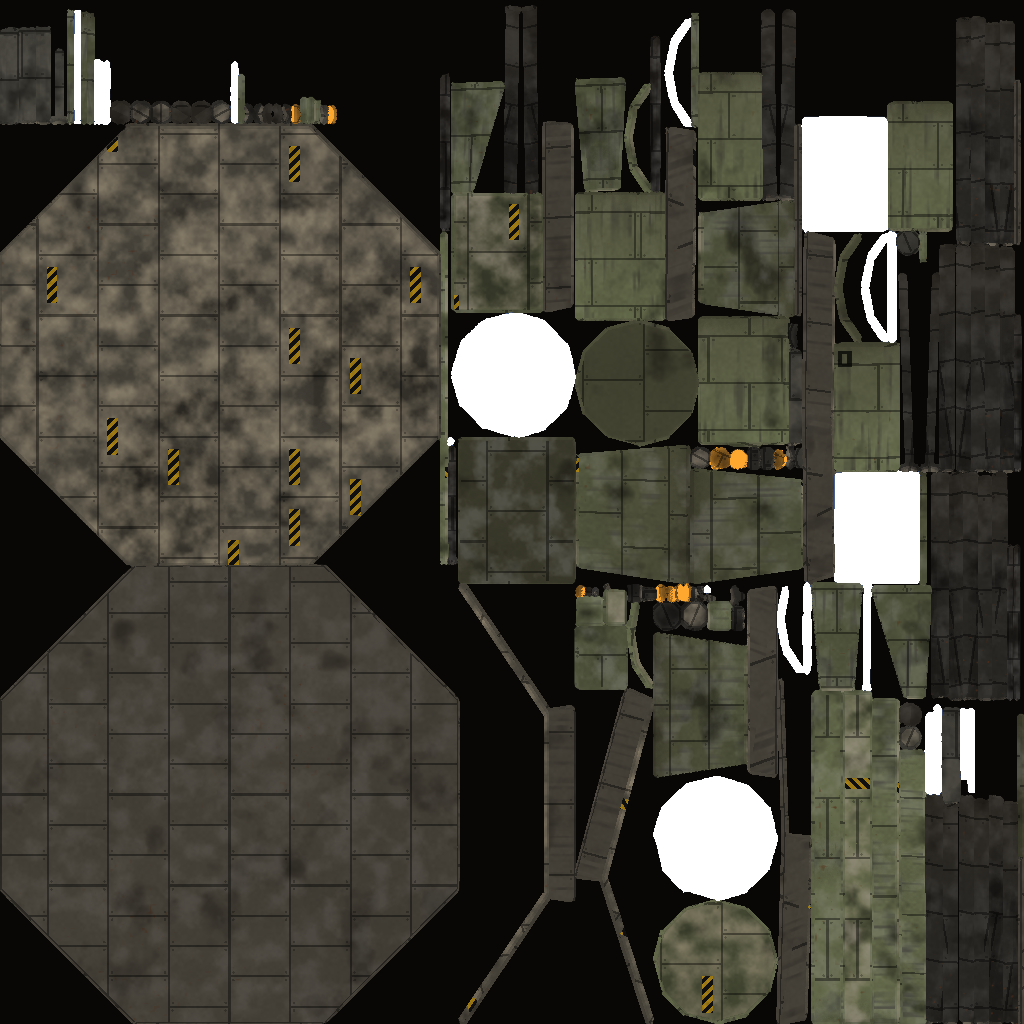
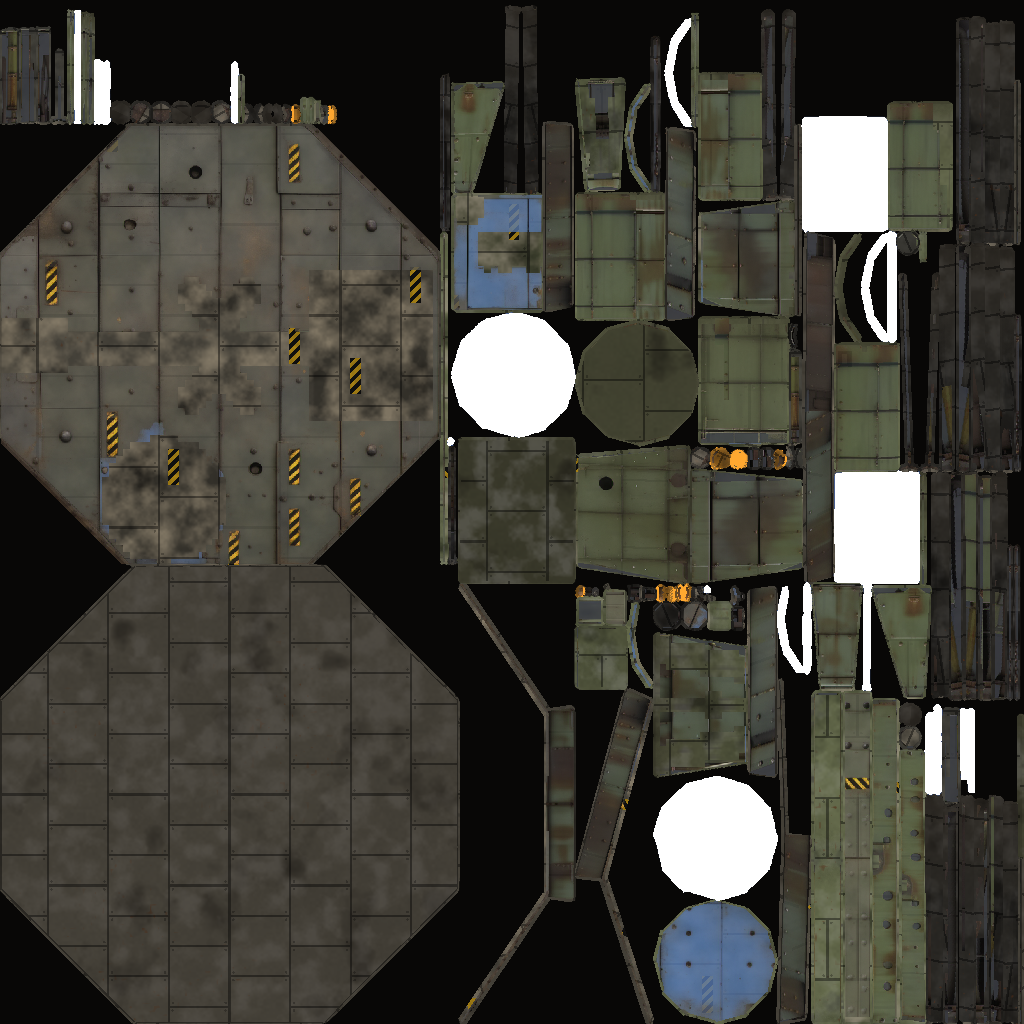
ComfyUI visuals: painted soil textures for the ground, SDXL paint pass on every Coalition model
Claude-Session: https://claude.ai/code/session_01ATFNcSdd7UeQuzwZaxzsbZ

diff --git a/tools/art/ground_textures.py b/tools/art/ground_textures.py
@@ -1,0 +1,84 @@
+"""Ground textures painted by ComfyUI: ground_textures.py [--seeds 3] [--install dirt=1,mud=2,...]
+Top-down soil (dirt, mud, gravel, scorched), made seamless so they tile, laid on a sheet to pick from.
+-> art/_gen/ground/<name>_s<seed>.png and ground_sheet.png; --install copies picks to art/ground/<name>.png
+(512, what game/ground_fog.gdshader samples). About 25 s a picture."""
+import os, sys, shutil
+import numpy as np
+from PIL import Image, ImageDraw, ImageFont, ImageFilter
+sys.path.insert(0, r"C:\dev\ai-tools\comfy")
+import pixelgen as pg
+
+ROOT = os.path.join(os.path.dirname(os.path.abspath(__file__)), "..", "..")
+OUT = os.path.join(ROOT, "art", "_gen", "ground")
+LIVE = os.path.join(ROOT, "art", "ground")
+
+GROUNDS = [
+    ("dirt", "dry packed brown earth, dust, small scattered stones, fine dry cracks, clods"),
+    ("mud", "dark churned damp earth, wet mud clods and ruts, puddle-dark patches"),
+    ("gravel", "grey gravel and broken rubble scattered over brown dirt, pebbles and small rocks"),
+    ("scorched", "scorched blackened earth, ash, soot, charred clods and small burnt debris"),
+]
+PROMPT = ("seamless tileable ground texture, straight top-down orthographic photo of {what}, flat even overcast "
+          "lighting, no shadows from objects, uniform coverage edge to edge, high detail, sharp, game texture")
+NEG = ("perspective, horizon, sky, plants, grass, leaves, people, animals, objects, vehicles, buildings, text, "
+       "watermark, frame, border, vignette, strong shadows, blurry, cartoon, painting")
+
+
+def seamless(img):
+    """Wraps the picture so it tiles: the edges come from its middle (rolled by half), blended in by a soft
+    noisy mask so no straight seam or ghost band shows."""
+    a = np.asarray(img, dtype=np.float32)
+    h, w = a.shape[:2]
+    b = np.roll(a, (h // 2, w // 2), axis=(0, 1))
+    y, x = np.mgrid[0:h, 0:w]
+    edge = np.minimum(np.minimum(x, w - 1 - x) / (w / 2), np.minimum(y, h - 1 - y) / (h / 2))   # 0 at the edge, 1 mid
+    rng = np.random.default_rng(3)
+    noise = np.asarray(Image.fromarray((rng.random((h // 32, w // 32)) * 255).astype(np.uint8))
+                       .resize((w, h), Image.Resampling.BICUBIC), dtype=np.float32) / 255
+    m = np.clip((edge + (noise - 0.5) * 0.35 - 0.3) / 0.25, 0, 1)[..., None]
+    return Image.fromarray((a * m + b * (1 - m)).clip(0, 255).astype(np.uint8))
+
+
+def flatten(img):
+    """Takes out the light's slow drift so the tile reads the same everywhere (the shader adds its own)."""
+    a = np.asarray(img, dtype=np.float32)
+    blur = np.asarray(img.filter(ImageFilter.GaussianBlur(96)), dtype=np.float32)
+    mean = a.reshape(-1, 3).mean(0)
+    return Image.fromarray((a / np.maximum(blur, 1) * mean).clip(0, 255).astype(np.uint8))
+
+
+args = sys.argv[1:]
+if "--install" in args:
+    os.makedirs(LIVE, exist_ok=True)
+    for pick in args[args.index("--install") + 1].split(","):
+        name, seed = pick.split("=")
+        src = Image.open(os.path.join(OUT, "%s_s%s.png" % (name, seed))).convert("RGB")
+        src.resize((512, 512), Image.Resampling.LANCZOS).save(os.path.join(LIVE, name + ".png"))
+        print("installed", name, seed)
+    sys.exit()
+
+seeds = int(args[args.index("--seeds") + 1]) if "--seeds" in args else 3
+os.makedirs(OUT, exist_ok=True)
+pg.start_server()
+S = 256
+sheet = Image.new("RGB", (S * 2 * seeds, 40 + S * 2 * len(GROUNDS) // 2 * 1 + 0), (14, 14, 20))
+sheet = Image.new("RGB", (S * 2 * seeds, 40 + (S * 2 + 30) * len(GROUNDS)), (14, 14, 20))
+d = ImageDraw.Draw(sheet)
+font = ImageFont.truetype("arialbd.ttf", 20)
+d.text((10, 8), "GROUND TEXTURES (each shown 2x2 to check the tiling)", font=font, fill=(255, 240, 200))
+for r, (name, what) in enumerate(GROUNDS):
+    for s in range(1, seeds + 1):
+        path = os.path.join(OUT, "%s_s%d.png" % (name, s))
+        if not os.path.exists(path):
+            g = pg.workflow(PROMPT.format(what=what), 1024, 1024, 100 * r + s, 30, 0.0, False)
+            g["neg"]["inputs"]["text"] = NEG
+            seamless(flatten(pg.generate(g).convert("RGB"))).save(path)
+            print("made", path, flush=True)
+        tile = Image.open(path).convert("RGB").resize((S, S), Image.Resampling.LANCZOS)
+        x, y = (s - 1) * S * 2, 40 + r * (S * 2 + 30)
+        d.text((x + 6, y + 4), "%s %d" % (name, s), font=font, fill=(255, 240, 200))
+        for i in range(2):
+            for j in range(2):
+                sheet.paste(tile, (x + i * S, y + 28 + j * S))
+sheet.save(os.path.join(OUT, "ground_sheet.png"))
+print("sheet", os.path.join(OUT, "ground_sheet.png"))

diff --git a/tools/art/paint_units.py b/tools/art/paint_units.py
@@ -1,0 +1,71 @@
+"""Repaints Battler models' flat views with ComfyUI: paint_units.py <name> ... [--stray 0.5] [--seed 5]
+The whole paint pass for one model:
+  1. blender_views.py (ai-tools) renders art/units/<name>.glb straight on -> art/_gen/ships_iso/paint/<name>_<view>.png
+  2. this: each view cropped to the model, enlarged so SDXL has room for detail, repainted as worn dieselpunk armour
+     (not far from what it was given), shrunk back -> <name>_<view>_paint.png
+  3. paint_model.py (ai-tools) --folder art/units projects the repaints onto <name>.png (the old one kept as _plain).
+Run with ComfyUI's Python. About 25 s a view."""
+import os, sys, subprocess
+from PIL import Image
+sys.path.insert(0, r"C:\dev\ai-tools\comfy")
+import pixelgen as pg
+
+ROOT = os.path.abspath(os.path.join(os.path.dirname(os.path.abspath(__file__)), "..", ".."))
+DIR = os.path.join(ROOT, "art", "_gen", "ships_iso", "paint")
+BLENDER = r"C:\dev\blender-4.5.14-windows-x64\blender.exe"
+TOOLS = r"C:\dev\ai-tools\blender"
+LOOK = {"top": "seen from directly above", "side": "side view", "front": "front view", "back": "rear view"}
+WORDS = ("{look} of a dieselpunk military {what}, heavy riveted olive drab steel armour plates, weld seams, bolts, "
+         "access hatches, grilles, chipped paint showing bare steel on the edges, soot, oil and dust stains, faded "
+         "stencil markings, orthographic, flat even lighting, crisp, high detail game texture")
+NEG = ("blurry, soft, smooth, plastic, toy, cartoon, text, watermark, background scenery, ground, person, crew, face, "
+       "perspective, cast shadow, new parts, extra barrels, glowing, sci-fi, spaceship, camouflage blotches")
+WHAT = {"hq": "headquarters bunker", "factory": "vehicle workshop", "extractor": "oil pumpjack", "powerplant": "diesel power plant",
+        "turret": "gun emplacement", "flak": "anti-aircraft gun", "bombard": "heavy mortar emplacement", "wall": "armoured wall",
+        "outpost": "field outpost", "flier": "propeller fighter plane", "bomber": "propeller bomber plane", "scout": "armoured car",
+        "ranger": "armoured car with a machine gun", "mobilebase": "big armoured truck", "artillery": "self-propelled howitzer",
+        "mortar": "mortar carrier", "lighttank": "light tank", "tank": "battle tank"}
+
+args = sys.argv[1:]
+
+
+def opt(name, default, kind=float):
+    if name in args:
+        i = args.index(name)
+        v = kind(args[i + 1])
+        del args[i:i + 2]
+        return v
+    return default
+
+
+stray, seed = opt("--stray", 0.5), int(opt("--seed", 5))
+env = dict(os.environ, ART_PROJECT=ROOT)
+pg.start_server()
+for name in args:
+    subprocess.run([BLENDER, "--background", "--python", os.path.join(TOOLS, "blender_views.py"), "--",
+                    name, os.path.join(ROOT, "art", "units"), "1024"], env=env, capture_output=True, check=True)
+    what = next((v for k, v in WHAT.items() if name.startswith(k) and (k != "factory" or "_" in name)), "war machine")
+    if name.startswith("factory"):
+        what = "vehicle workshop"
+    for view, look in LOOK.items():
+        src = Image.open(os.path.join(DIR, "%s_%s.png" % (name, view))).convert("RGBA")
+        box = src.getchannel("A").getbbox()
+        if not box:
+            continue
+        pad = 24
+        box = (max(0, box[0] - pad), max(0, box[1] - pad), min(src.width, box[2] + pad), min(src.height, box[3] + pad))
+        crop = src.crop(box)
+        scale = 1024.0 / max(crop.size)
+        w, h = [max(256, int(round(v * scale / 64.0)) * 64) for v in crop.size]
+        canvas = Image.new("RGB", crop.size, (58, 60, 70))
+        canvas.paste(crop, (0, 0), crop)
+        init = os.path.join(DIR, "_init.png")
+        canvas.resize((w, h), Image.Resampling.LANCZOS).save(init)
+        g = pg.workflow(WORDS.format(look=look, what=what), w, h, seed, 30, 0.0, False, init=pg.stage_init(init), denoise=stray)
+        g["neg"]["inputs"]["text"] = NEG
+        out = pg.generate(g).convert("RGBA").resize(crop.size, Image.Resampling.LANCZOS)
+        out.putalpha(crop.getchannel("A"))
+        full = Image.new("RGBA", src.size, (0, 0, 0, 0))
+        full.paste(out, box[:2])
+        full.save(os.path.join(DIR, "%s_%s_paint.png" % (name, view)))
+        print(name, view, "painted", flush=True)

diff --git a/game/Main.cs b/game/Main.cs
@@ -527,6 +527,8 @@ public partial class Main : Node3D
         var groundMat = new ShaderMaterial { Shader = GD.Load<Shader>("res://game/ground_fog.gdshader") };
         groundMat.SetShaderParameter("fog", _fogTexture);
         groundMat.SetShaderParameter("half_size", new Vector2(World.MapHalfX.ToFloat(), World.MapHalfZ.ToFloat()));
+        foreach (var soil in new[] { "dirt", "mud", "gravel", "scorched" })
+            groundMat.SetShaderParameter(soil + "_tex", GD.Load<Texture2D>($"res://art/ground/{soil}.png"));
         AddChild(_terrain.BuildGround(groundMat));
         var waterMat = new ShaderMaterial { Shader = GD.Load<Shader>("res://game/water_fog.gdshader") };
         waterMat.SetShaderParameter("fog", _fogTexture);
